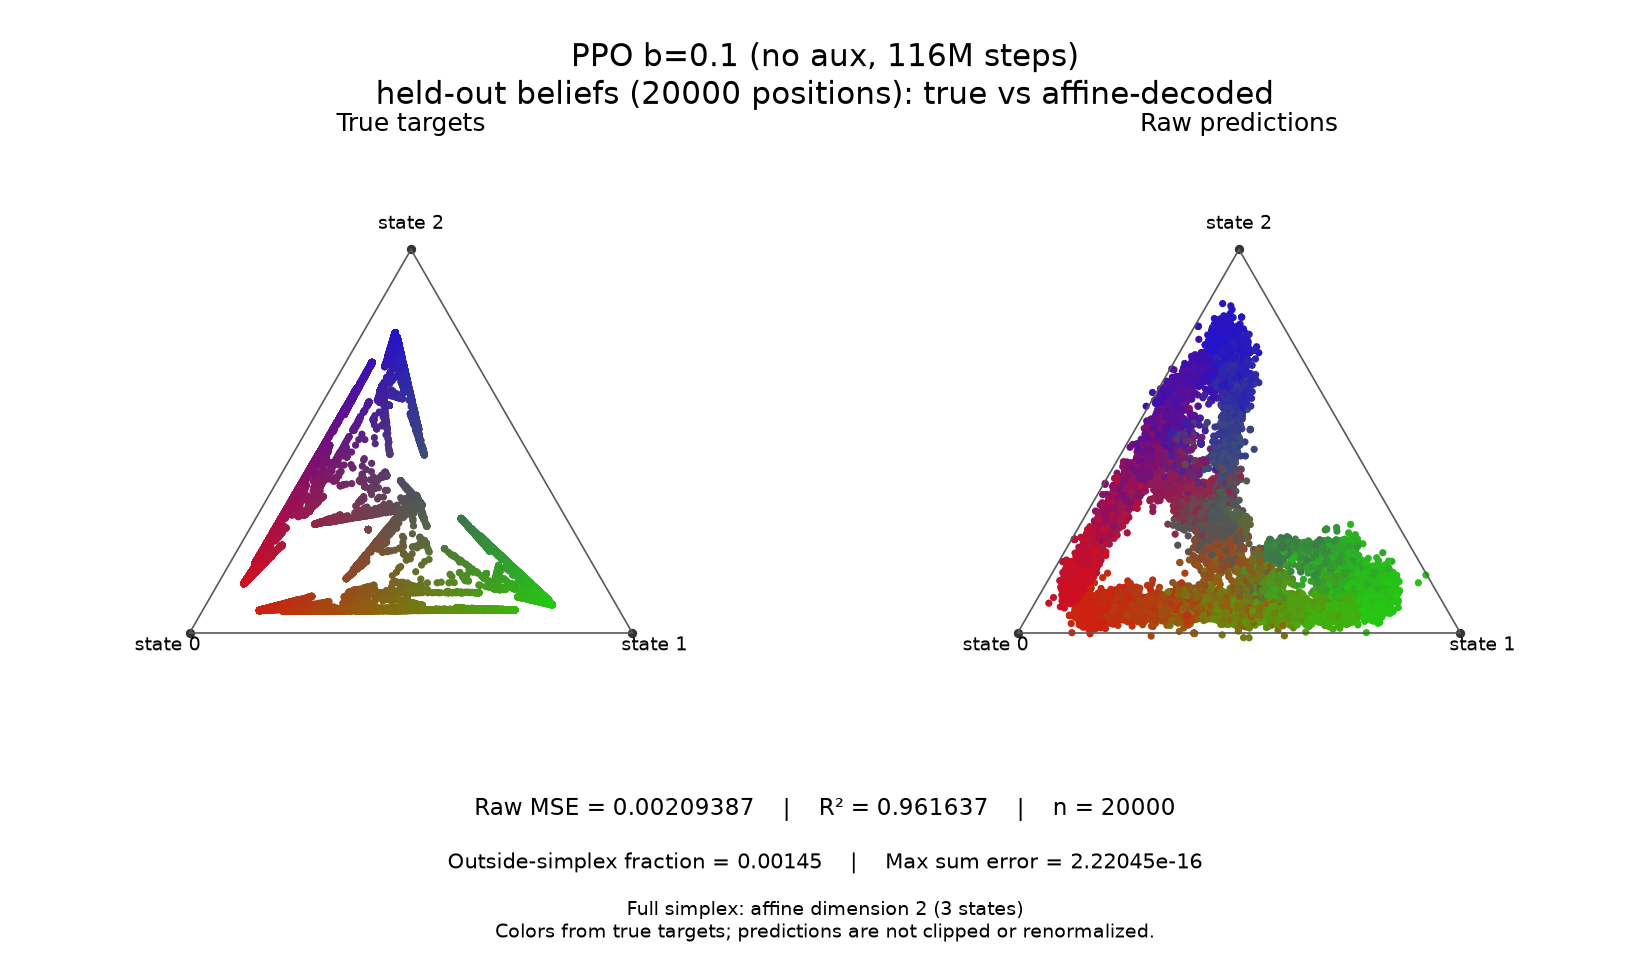
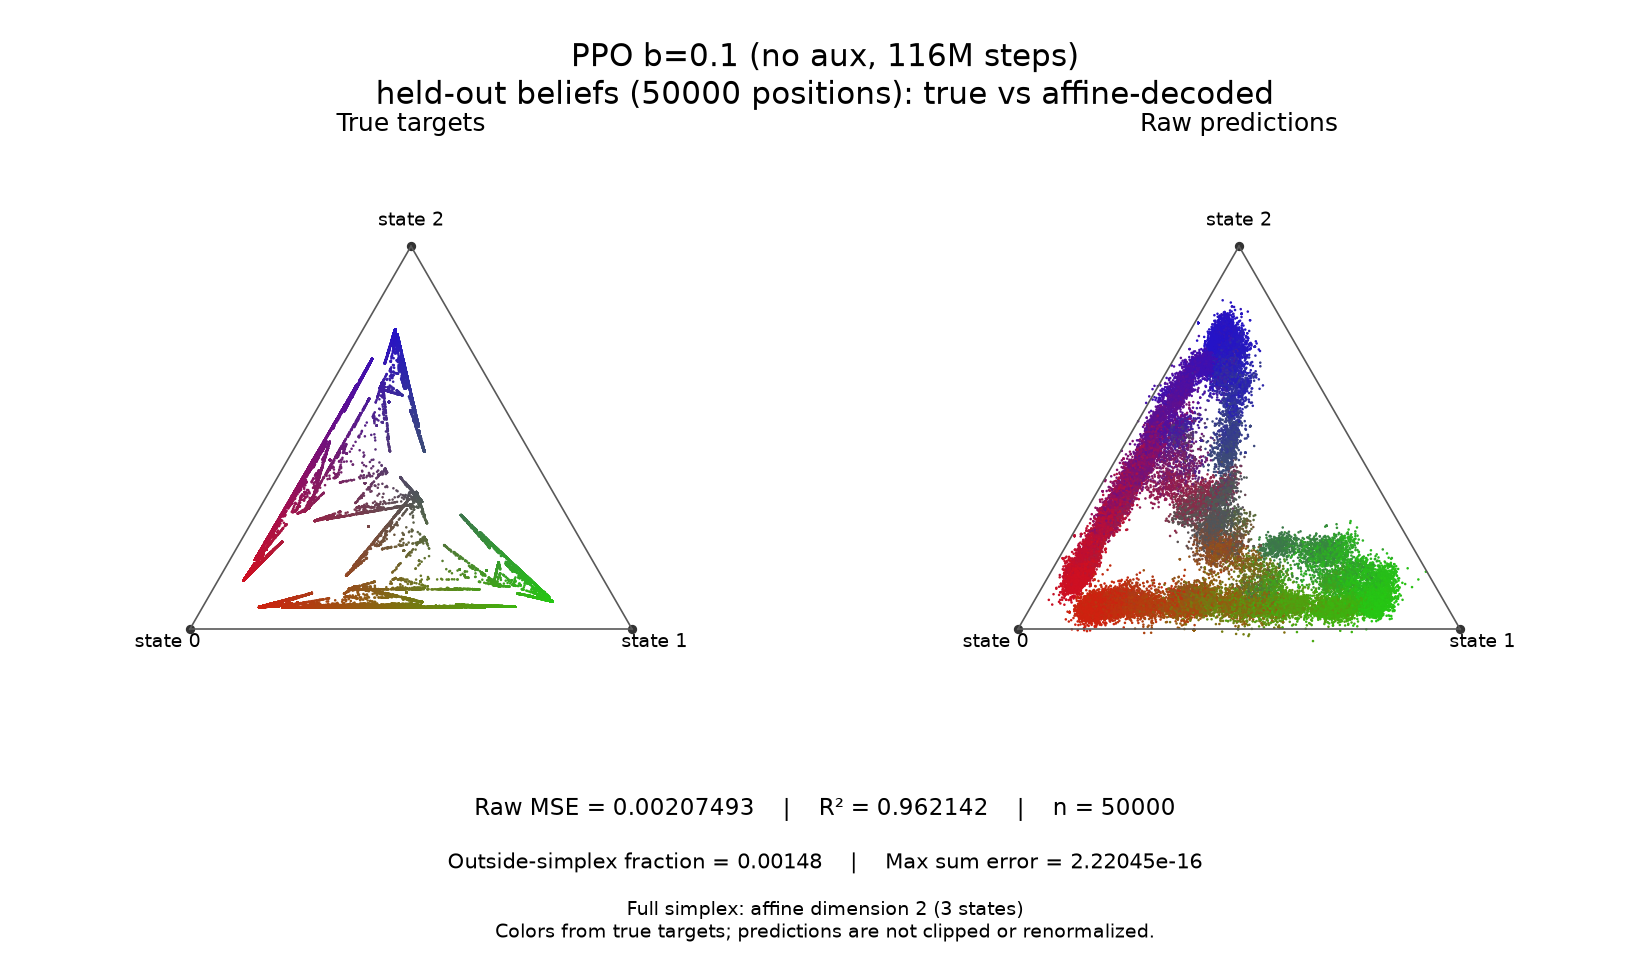
Decoded-belief simplex plots: finer points, n=50k

diff --git a/experiments/pusher_b/probe_analysis/plot_decoded_belief.py b/experiments/pusher_b/probe_analysis/plot_decoded_belief.py
@@ -17,7 +17,8 @@ from experiments.pusher_b.probe_analysis.probe_curves import (CKPTS, MODEL_CONFI
 PRESET = "b10"
 RUNS = {"rl_b10_continue": "PPO b=0.1 (no aux, 116M steps)", "rl_b10_aux_ce": "PPO b=0.1 + next-token CE aux (116M steps)",
         "supervised_b10": "supervised next-token b=0.1 (10k steps x 512 seqs, run 20260913T224010Z-054af3e0)"}
-N_POINTS = 20_000
+N_POINTS = 50_000
+POINT_SIZE = 1.5
 
 
 def fit_decode(a_fit, y_fit, a_test, ridge=1e-6):
@@ -49,7 +50,7 @@ def main():
         dec = fit_decode(a_fit, fb, a_test)
         # affine probe output onto the belief plane: it sums to 1 only approximately, so project for the simplex check
         dec = dec - (dec.sum(1, keepdims=True) - 1) / 3
-        fig = plot_belief_comparison(flat_t[idx], dec[idx], state_labels=["state 0", "state 1", "state 2"],
+        fig = plot_belief_comparison(flat_t[idx], dec[idx], state_labels=["state 0", "state 1", "state 2"], point_size=POINT_SIZE,
                                      title=f"{name}\nheld-out beliefs ({N_POINTS} positions): true vs affine-decoded")
         fig.savefig(ROOT / "results" / f"pusher_b_decoded_belief_{leaf}.png", dpi=150)
         plt.close(fig)
